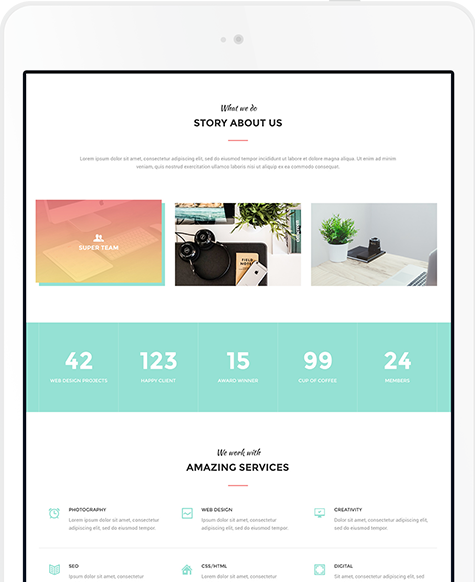
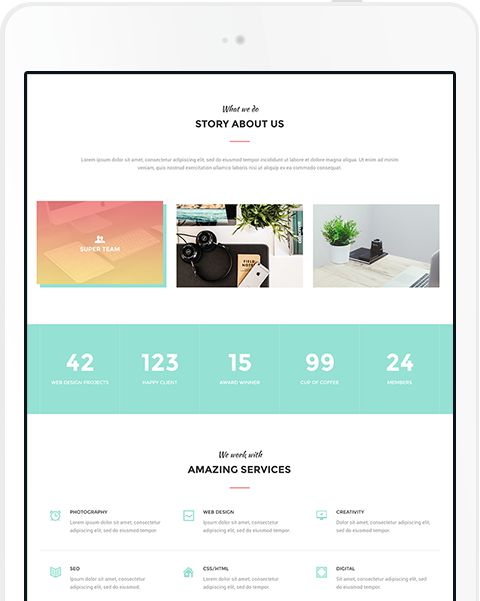
finished devices and started what we do page

diff --git a/index.html b/index.html
@@ -177,7 +177,42 @@
 
           <div class="devices">
             <img class="devices_item" src="/assets/images/device/ipad.png" alt="">
+            <img class="devices_item devices_item--iphone" src="/assets/images/device/iphone_03.png" alt="">
           </div>
+
+        </div>
+    </section>
+    
+
+    <section>
+        <div class="container">
+
+          <div class="section_header">
+            <h3 class="section_subtitle">Service</h3>
+            <h2 class="section_title">What we do</h2>
+            <div class="section_text"> <p> Lorem ipsum dolor sit amet, consectetur adipiscing elit, sed do eiusmod tempor incididunt ut labore et dolore magna aliqua. Ut enim ad minim veniam, quis nostrud exercitation ullamco laboris nisi ut aliquip ex ea commodo consequat.</p></div>
+          </div>  
+
+          <div class="wedo">
+            
+            <div class="wedo_item">
+              <img src="/assets/images/wedo/wedo.jpg" alt="">
+            </div>
+
+            <div class="wedo_item">
+                <div class="accordion">
+                  <div class="accordion_item">
+                    <div class="accordion_header">
+                      <img class="accordion_icon" src="assets/images/services/creavity.png" alt="">
+                      <div class="accordion_title">Photography</div>
+                    </div>
+                    <div class="accordion_content"> <p> Lorem ipsum dolor sit amet, consectetur adipiscing elit, sed do eiusmod tempor incididunt ut labore et dolore magna aliqua. Ut enim ad minim veniam, quis nostrud exercitation ullamco laboris nisi ut aliquip ex ea commodo consequat. Duis aute irure dolor in reprehenderit in voluptate velit esse cillum dolore eu fugiat nulla pariatur. Excepteur sint occaecat cupidatat non proident, sunt in culpa qui officia deserunt mollit anim id est laborum.</p></div>
+                  </div>
+                </div><!-- end accordion -->
+            </div><!-- end wedo_item -->
+
+          </div><!-- end wedo -->
+
 
         </div>
     </section>

diff --git a/assets/css/style.css b/assets/css/style.css
@@ -245,6 +245,7 @@ hr {
 
 .section--devices {
   padding-bottom: 0;
+  margin-bottom: 100px;
 
   background: url(/assets/images/background_device_02.jpg) center no-repeat;
   background-size: cover;
@@ -417,6 +418,80 @@ hr {
 .devices {
   width: 100%;
   max-width: 600px;
+  position: relative;
 
   margin: 0 auto;
+}
+
+.devices_item {
+  display: block;
+}
+
+.devices_item--iphone {
+  position: absolute;
+  right: 0;
+  z-index: 1;
+  bottom: -80px;
+}
+
+/* We do */
+
+.wedo {
+  display: flex;
+}
+
+.wedo_item {
+  width: 50%;
+}
+
+/* Accordion */
+.accordion {
+  border: 1px solid #e5e5e5;
+}
+
+.accordion_header {
+  padding: 15px 20px 15px 65px;
+  position: relative;
+  border-bottom: 1px solid #e5e5e5;
+}
+
+.accordion_header:after {
+  content: "";
+  display: block;
+  width: 16px;
+  height: 16px;
+
+  border-top: 2px solid #ccc;
+  border-right: 2px solid #ccc;
+
+  position: absolute;
+  top: 50%;
+  right: 20px;
+  z-index: 1;
+
+  transform: translateY(-50%) rotate(-45deg);
+}
+
+.accordion_icon {
+  position: absolute;
+  top: 50%;
+  left: 20px;
+  z-index: 1;
+
+  transform: translateY(-50%);
+}
+
+.accordion_content {
+  padding: 15px 20px;
+
+  color: #999;
+  font-size: 15px;
+  font-style: italic;
+  font-weight: 300;
+}
+
+.accordion_title {
+  font-size: 14px;
+  color: #333;
+  text-transform: uppercase;
 }
